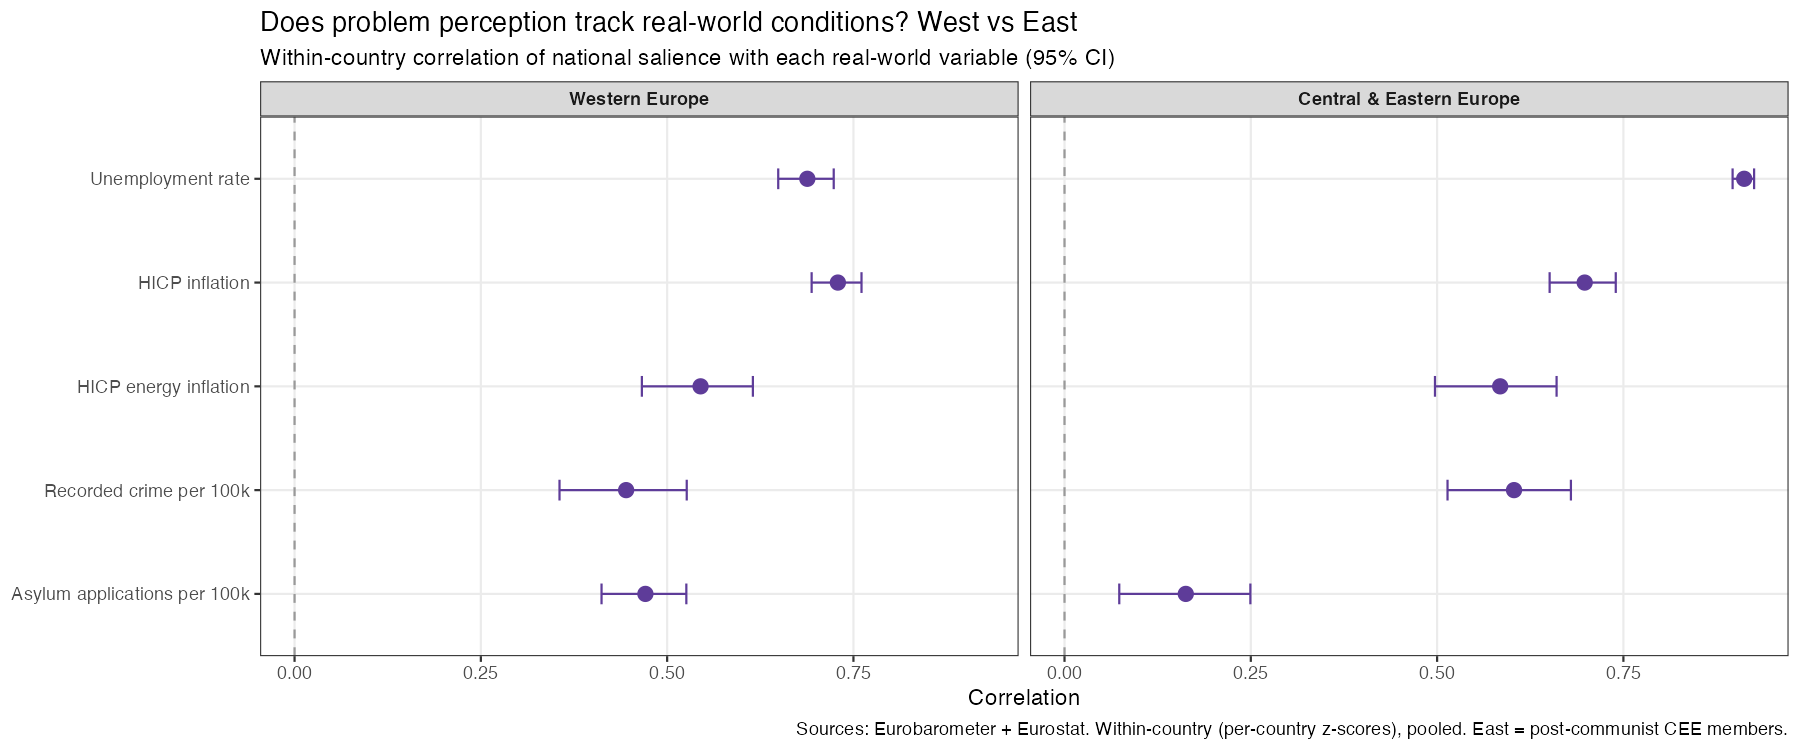
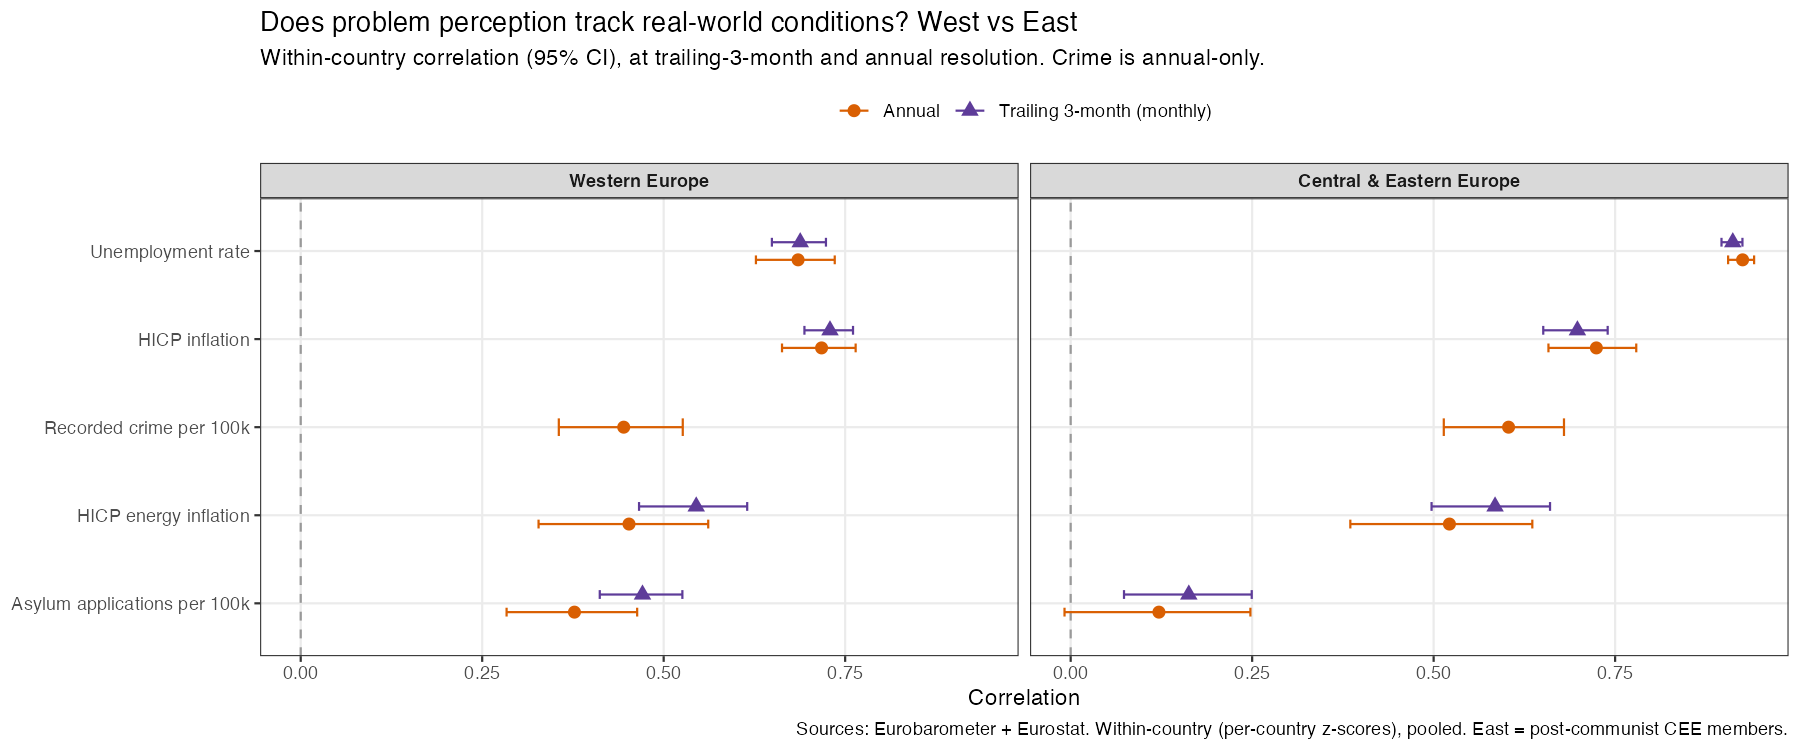
Add annual resolution alongside trailing-3-month
04 now computes within-country correlations at both resolutions (wave-level
trailing-3-month and annual means); correlations.csv gains a `resolution` column.
The summary plot shows both (crime is annual-only). Docs updated; also clears two
leftover Spearman mentions in the README.

diff --git a/README.md b/README.md
@@ -24,13 +24,18 @@ within-country correlation between perception and reality.
 
 Perception tracks **economic** conditions closely and **immigration** loosely:
 
-| Perception ~ real-world variable | Within-country correlation |
-|---|---|
-| Unemployment ~ unemployment rate | 0.78 |
-| Inflation ~ HICP inflation | 0.72 |
-| Energy ~ HICP energy inflation | 0.56 |
-| Crime ~ recorded crime | 0.51 |
-| Immigration ~ asylum applications | 0.35 |
+| Perception ~ real-world variable | Trailing 3-mo | Annual |
+|---|---|---|
+| Unemployment ~ unemployment rate | 0.78 | 0.78 |
+| Inflation ~ HICP inflation | 0.72 | 0.72 |
+| Energy ~ HICP energy inflation | 0.56 | 0.48 |
+| Crime ~ recorded crime | — | 0.51 |
+| Immigration ~ asylum applications | 0.35 | 0.28 |
+
+Within-country correlations are reported at two resolutions: matching each survey
+wave to the **trailing 3-month** average of the indicator, and **annual** means
+(crime is published only annually, so it has no monthly version). The two agree
+closely; the 3-month version is slightly higher for the monthly indicators.
 
 The energy figure is the least robust — it leans heavily on the single 2022
 energy-price spike rather than a steady relationship.
@@ -43,7 +48,8 @@ concern is largely decoupled from actual asylum flows and driven by politics ins
 ## What it produces
 
 - `data/salience_contexts.csv` — salience by issue × country × wave × context
-- `data/correlations.csv` — within-country Pearson, Spearman, and panel-FE estimates
+- `data/correlations.csv` — within-country correlation + panel-FE estimates, by
+  region (All / West / East) and resolution (trailing-3-month / annual)
 - `output/correlation_summary.png` — the forest plot above
 - `output/overlay_<issue>.png` — per-country overlays: salience (%) and the
   real-world indicator, each **min–max scaled to its own range** so co-movement is
@@ -86,17 +92,17 @@ Stages:
 01_build_micro.R              harmonise GESIS waves -> core_micro
 02_build_contexts.R           issue × context salience -> data/salience_contexts.csv
 03_build_macro.R              Eurostat -> data/core_macro.rds
-04_correlate.R                within-country Pearson + Spearman + panel FE
+04_correlate.R                within-country correlation + panel FE (3-mo & annual)
 05_plot_descriptive.R         salience over time, per issue
 06_plot_correlations.R        dual-axis overlays + correlation summary
 ```
 
 ## Method notes
 
-- Correlations are **within-country** (per-country z-scores, pooled). For the four
-  monthly indicators each survey wave is matched to the **trailing 3-month average**
-  of the indicator (the survey month + the two before); crime is annual (published
-  yearly), so it uses annual means.
+- Correlations are **within-country** (per-country z-scores, pooled), computed at
+  two resolutions: each survey wave matched to the **trailing 3-month average** of
+  the indicator, and **annual** means. Crime is published only annually (no monthly
+  version). The two resolutions agree closely.
 - Overlays show salience and the indicator **min–max scaled per country** (free
   axes), so co-movement is visible in every country; each facet is labelled with r.
 

diff --git a/docs/analysis.md b/docs/analysis.md
@@ -20,11 +20,12 @@ variable each should plausibly respond to:
 
 Salience is the survey-weighted share naming the issue (national context, QA3).
 Correlations are **within country** (per-country z-scores, pooled, so they describe
-over-time co-movement rather than cross-country level differences). For the four
-monthly indicators, each Eurobarometer wave is matched to the **trailing 3-month
-average** of the indicator (the survey month plus the two before it); crime is
-published only annually, so it uses annual means. We report the within-country
-**correlation** (with 95% CI) and a panel fixed-effects slope. Time-series overlays
+over-time co-movement rather than cross-country level differences), at **two
+resolutions**: each Eurobarometer wave matched to the **trailing 3-month average**
+of the indicator, and **annual** means (crime is published only annually, so it has
+no monthly version). The two agree closely — the figures below use the 3-month
+resolution; the annual values are in `correlations.csv` and on the summary plot.
+We report the within-country **correlation** (95% CI) and a panel fixed-effects slope. Time-series overlays
 show salience (%) and the indicator **each min–max scaled to its own range, per
 country** (free axes), so co-movement is visible in every country; each facet is
 labelled with its r.